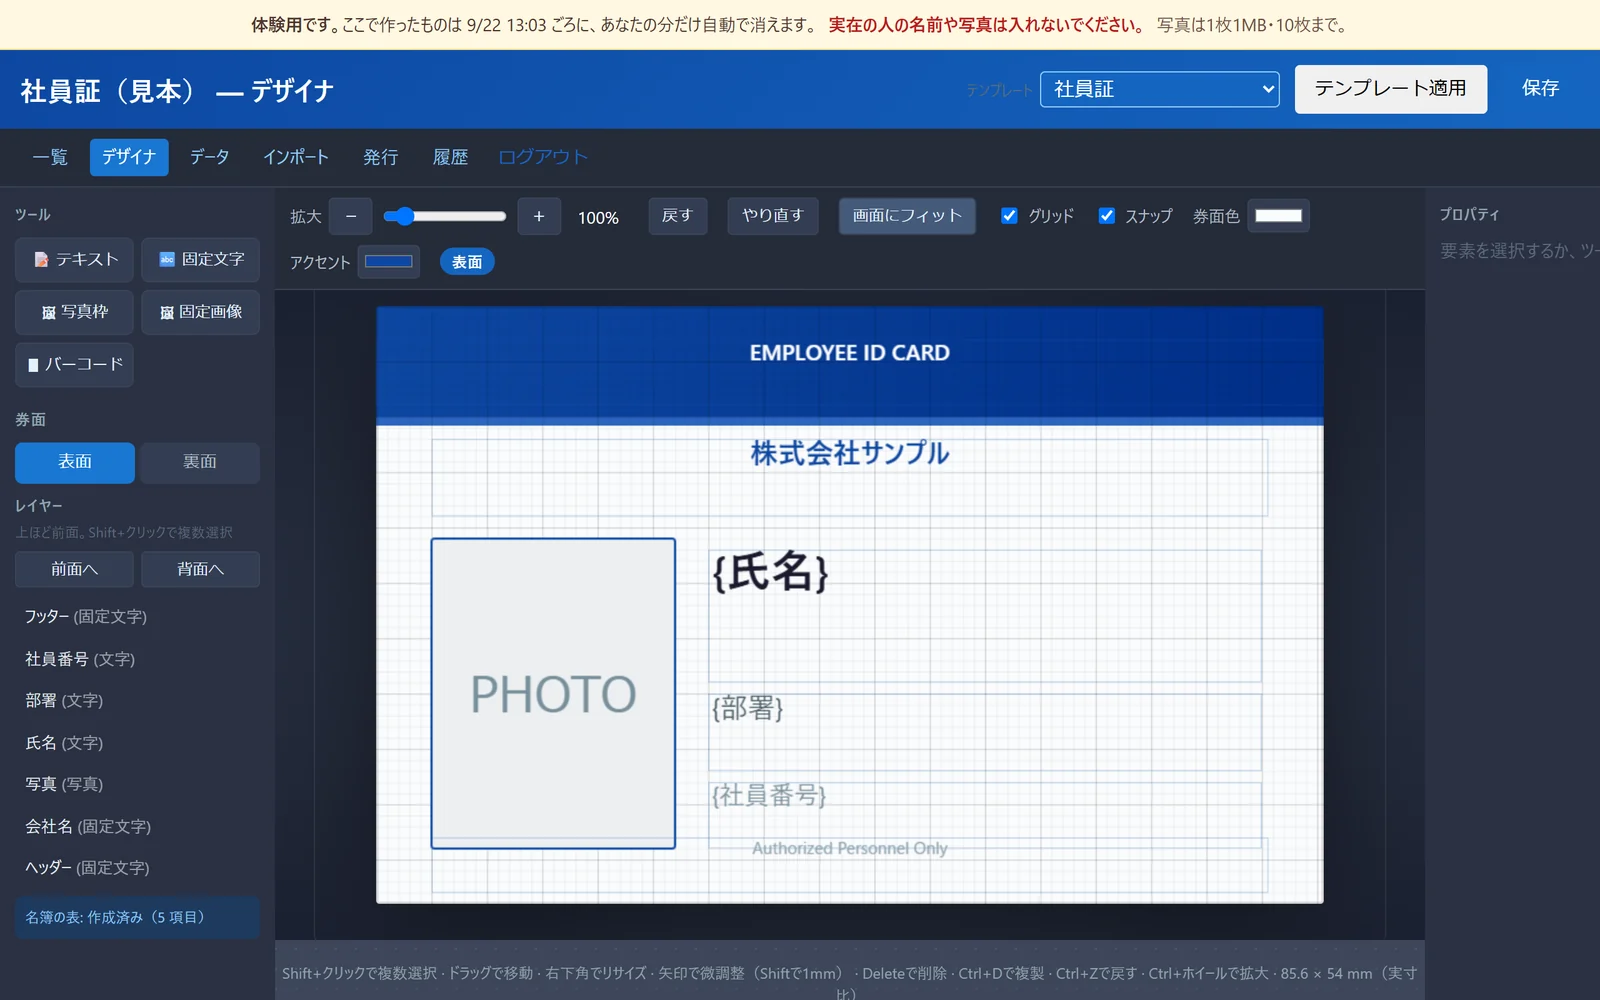
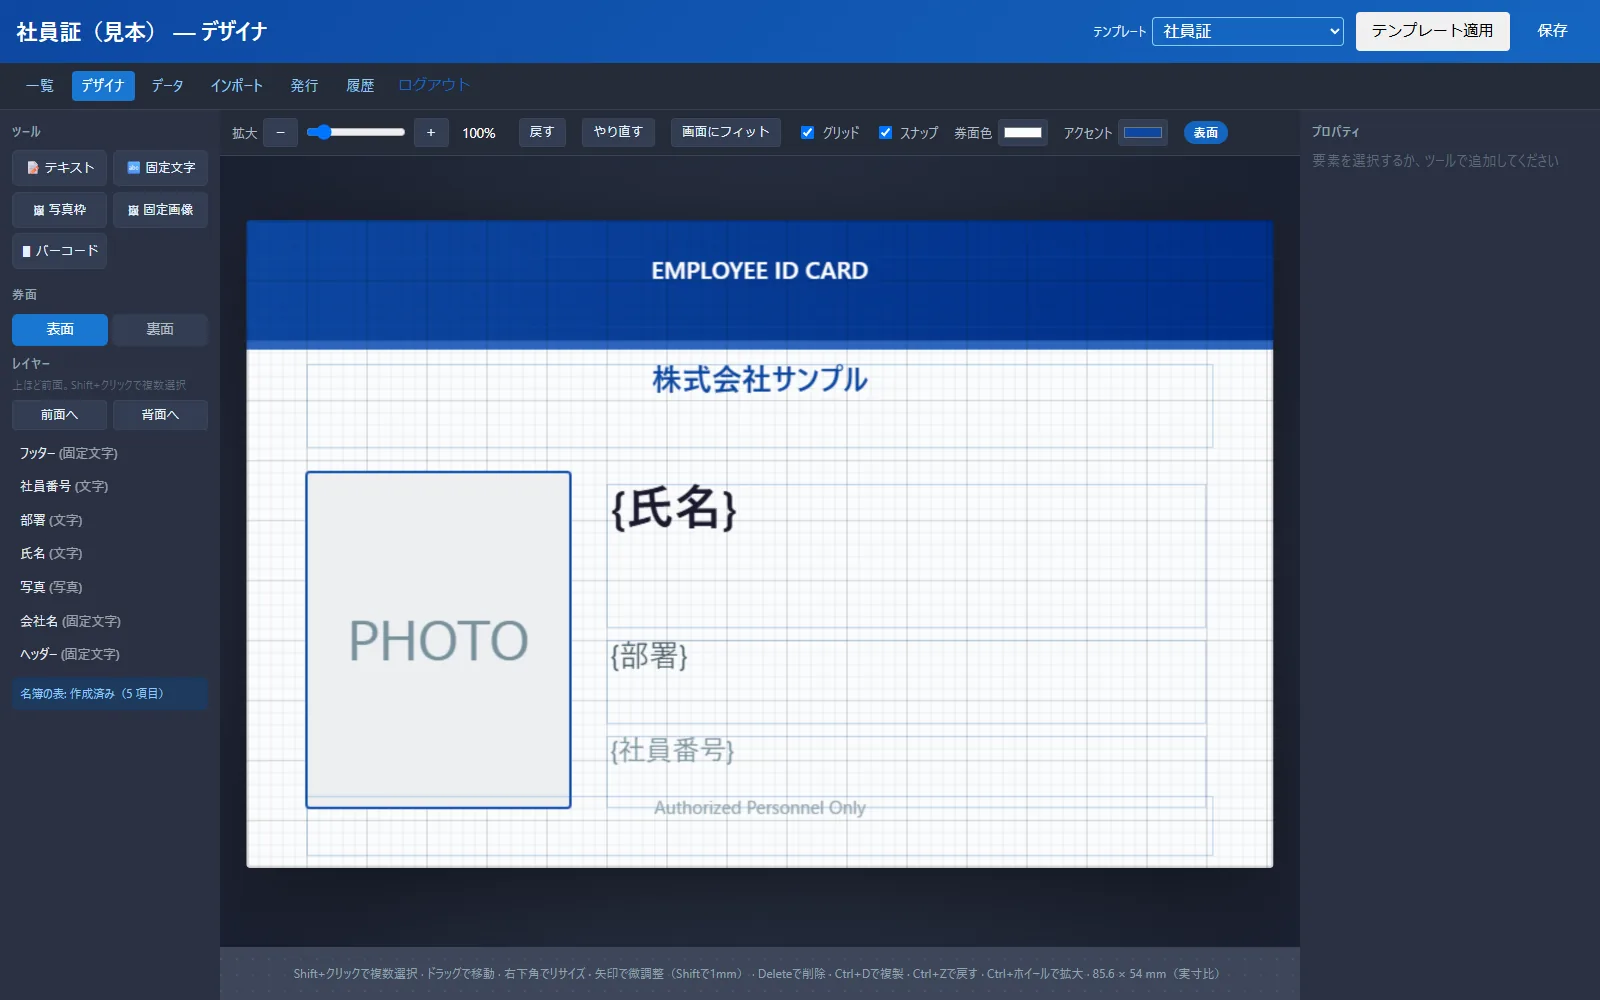
CardSync の体験版を公開につなぐ
- 体験版の住所を card.himawasa-sync.com に。説明ページのボタンと体験一覧に出る。
- /card/（合言葉つきの見本）は役目を終えたので /cardsync/ へ送る。
- デザイナの写真を、直したあと（カード全体が見える状態）に差し替え。

diff --git a/src/App.jsx b/src/App.jsx
@@ -13,7 +13,6 @@ import ContactPage from './pages/ContactPage'
 import TryPage from './pages/TryPage'
 import PrivacyPage from './pages/PrivacyPage'
 import AsksDemoPage from './pages/AsksDemo/AsksDemoPage'
-import CardDemoPage from './pages/CardDemo/CardDemoPage'
 import CardSyncPage from './pages/CardSync/CardSyncPage'
 import NotFoundPage from './pages/NotFoundPage'
 import IndustryPage from './pages/for/IndustryPage'
@@ -100,8 +99,9 @@ function AppShell() {
           <Route path="/supply/" element={<AsksDemoPage />} />
           <Route path="/asks-demo" element={<Navigate to="/supply/" replace />} />
           <Route path="/asks-demo/" element={<Navigate to="/supply/" replace />} />
-          <Route path="/card" element={<CardDemoPage />} />
-          <Route path="/card/" element={<CardDemoPage />} />
+          {/* 合言葉つきの見本は役目を終えた。同じ中身を、登録なしで開ける CardSync の案内へ送る。 */}
+          <Route path="/card" element={<Navigate to="/cardsync/" replace />} />
+          <Route path="/card/" element={<Navigate to="/cardsync/" replace />} />
           <Route path="/cardsync" element={<CardSyncPage />} />
           <Route path="/cardsync/" element={<CardSyncPage />} />
           <Route path="*" element={<NotFoundPage />} />

diff --git a/src/seo/site.js b/src/seo/site.js
@@ -336,7 +336,7 @@ export const PAGES = {
 }
 
 // CardSync の体験版（Cloud Run）の URL。空のあいだは、説明ページは「まもなく公開」と出し、体験一覧にも載せない。
-export const CARDSYNC_TRIAL_URL = ''
+export const CARDSYNC_TRIAL_URL = 'https://card.himawasa-sync.com'
 
 export const TRY_APPS = [
   {
